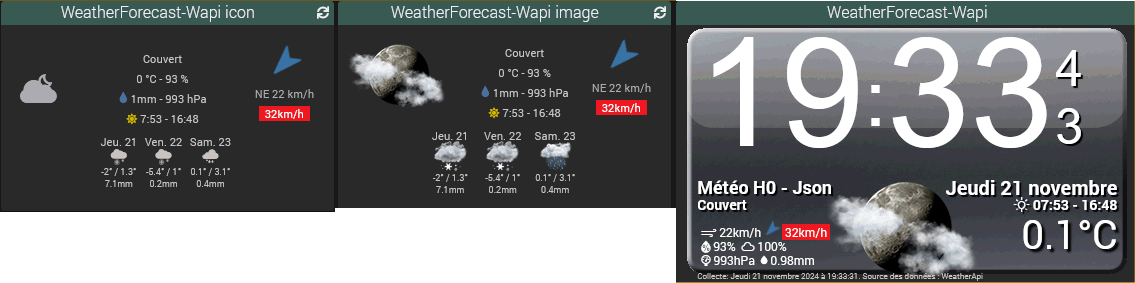
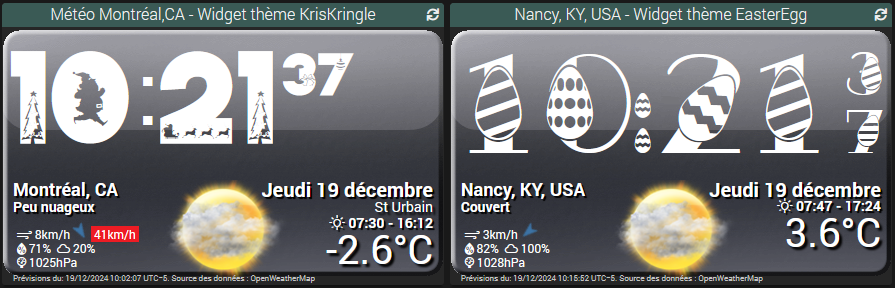
Add files via upload

diff --git a/core/template/dashboard/cmd.info.string.Clock.html b/core/template/dashboard/cmd.info.string.Clock.html
@@ -13,6 +13,12 @@
       font-weight:normal;
       font-style:normal;
     }
+    @font-face {
+      font-family: "Easter Egg";
+      src: url("plugins/weatherForecast/desktop/fonts/EasterEggRedu.ttf") format("truetype");
+      font-weight:normal;
+      font-style:normal;
+    }
   </style>
   <div class="content" style="background:transparent">
     <div id="digital_container#id#">
@@ -206,8 +212,8 @@
     <div>clockSecondsMarginLeft: {{Marge gauche du texte des secondes sur l'horloge. Défaut: 8px}}</div>
     <div>clockSecondsMarginTop: {{Marge haute du texte des secondes sur l'horloge. Défaut: 26px}}</div>
     <div>clockSecondsOn2Lines: {{Texte des secondes sur 2 lignes. 0/1 Défaut: 1}}</div>
-    <div>clockTheme: {{Thème de l'horloge.}} Digital, KrisKringle</div>
-    <div>clockTimezone: {{Fuseau horaire si pas de météo associée. Défaut: Europe/Paris}}</div>
+    <div>clockTheme: {{Thème de l'horloge.}} Digital, KrisKringle, EasterEgg</div>
+    <div>clockTimezone: {{Fuseau horaire. Défaut: Le fuseau horaire du navigateur}}</div>
     <div>displayBackgroundImage: {{Affichage de l'image de fond. 0/1 Défaut: 1}}</div>
     <div>displayClouds: {{Affichage du pourcentage de nuages. 0/1 Défaut: 1}}</div>
     <div>displayDayOfTheYear: {{Affichage du jour de l'année. 0/1 Défaut: 0 }}</div>
@@ -231,9 +237,9 @@
     var clockAnimation#id# = '';
     if ('#clockAnimation#' != '#clockAnimation'+'#')  clockAnimation#id# = '#clockAnimation#';
     else clockAnimation#id# = 'Random';
-    var timezone#id# = '';
+    var timezone#id# = Intl.DateTimeFormat().resolvedOptions().timeZone;
+    console.log("Browser TimeZone " +timezone#id#);
     if ('#clockTimezone#' != '#clockTimezone'+'#')  timezone#id# = '#clockTimezone#';
-    else timezone#id# = 'Europe/Paris';
     var seconds2lines#id# = 1;
     if ('#clockSecondsOn2Lines#' != '#clockSecondsOn2Lines'+'#')
       seconds2lines#id# = '#clockSecondsOn2Lines#';
@@ -248,17 +254,18 @@
       else if(clockAnimation#id#.toUpperCase() == 'SCROLLV') anim = 'animScrollV#id#';
       let lastHours = last#id#.substring(0,2);
       let lastMinutes = last#id#.substring(3,5);
+      if ('#clockTimezone#' != '#clockTimezone'+'#')  timezone#id# = '#clockTimezone#';
       let now = new Date();
       let nowTime = now.toLocaleTimeString('fr-FR', {timeZone:timezone#id#});
       let nowHours = nowTime.substring(0,2);
       let nowMinutes = nowTime.substring(3,5);
       let nowSeconds = nowTime.substring(6,8);
-// console.log("Timezone:" +timezone#id# +" " +nowTime);
+// console.log("UpdateTimeDate Timezone:" +timezone#id# +" " +nowTime);
 // console.log("Timezone:" +timezone#id# +" " +nowHours +"/" +nowMinutes +"/" +nowSeconds);
-      if (lastHours !== nowHours) {
+      if (lastHours != nowHours) {
           updateContainer#id#(hoursContainer#id#, nowHours, anim)
       }
-      if(lastMinutes !== nowMinutes) {
+      if(lastMinutes != nowMinutes) {
         updateContainer#id#(minutesContainer#id#, nowMinutes, anim)
       }
 // console.log("Timezone:" +timezone#id# +" " +lastHours +" " +nowHours +":" +nowMinutes);
@@ -282,11 +289,11 @@
           time.unshift('0');
       }
       let first = container.firstElementChild
-      if (first.lastElementChild.textContent !== time[0]) {
+      if (first.lastElementChild.textContent != time[0]) {
         updateNumber#id#(first, time[0], anim);
       }
       let last = container.lastElementChild
-      if (last.lastElementChild.textContent !== time[1]) {
+      if (last.lastElementChild.textContent != time[1]) {
         updateNumber#id#(last, time[1], anim);
       }
     }
@@ -332,9 +339,9 @@
             let json = _options.display_value.replaceAll('&quot;','"');
             let obj = JSON.parse(json);
             if(obj != null) {
-              timezone#id# = obj.timezone;
+              if(typeof obj.timezone != 'undefined') timezone#id# = obj.timezone;
               dayTxt = cd.toLocaleDateString([], {timeZone: timezone#id#, month: 'long', day: 'numeric',weekday: 'long'});
-// console.log("Timezone: " +timezone#id# +" Date: " +dayTxt +" " +obj.dt);
+// console.log("addUpdateFunction Timezone: " +timezone#id# +" Date: " +dayTxt +" " +obj.dt);
               let icon = "url('plugins/weatherForecast/core/template/images/" +obj.weather.icon +".png')"
               cmd.querySelector('.wIcon#uid#').style.setProperty('background-image', icon)
               cmd.querySelector('.condition').innerHTML = obj.weather.desc;
@@ -344,7 +351,7 @@
               cmd.querySelector('.Tvalue').setAttribute('title', 'Ressentie: '+obj.T.windchill);
 
               let sunrise = '--'; let sunset = '--';
-              if(typeof obj.sunrise !== 'undefined') {
+              if(typeof obj.sunrise != 'undefined') {
                 if(obj.sunrise == true) sunrise = '<i class="wi wi-day-sunny"></i>';
                 else if(obj.sunrise == false) sunrise = '<i class="wi wi-night-clear"></i>';
                 else {
@@ -352,7 +359,7 @@
                   sunrise = '<i class="wi wi-day-sunny"></i>&nbsp;' + cdrise.toLocaleTimeString([], { timeZone: timezone#id#, hour: "2-digit", minute: "2-digit", hour12: false });
                 }
               }
-              if(typeof obj.sunset !== 'undefined') {
+              if(typeof obj.sunset != 'undefined') {
                 if(obj.sunset == true) sunset = '<i class="wi wi-day-sunny"></i>';
                 else if(obj.sunset == false) sunset = '<i class="wi wi-night-clear"></i>';
                 else {
@@ -369,11 +376,11 @@
                 // Saint du jour
               saintOfTheDay = '';
               if('#displaySaintOfTheDay#' == '1') {
-                if(typeof obj.saintOfTheDay !== undefined) 
+                if(typeof obj.saintOfTheDay != 'undefined') 
                   saintOfTheDay = obj.saintOfTheDay;
               }
               if('#displayDayOfTheYear#' == '1') {
-                if(typeof obj.dayOfTheYear !== undefined) 
+                if(typeof obj.dayOfTheYear != 'undefined') 
                   saintOfTheDay += ' ' + obj.dayOfTheYear;
               }
               cmd.querySelector('.saintOfTheDay').innerHTML = saintOfTheDay;
@@ -452,13 +459,27 @@
             }
             else if ('#clockTheme#' == 'KrisKringle') {
               cmd.querySelector('.clock#id#').style.fontFamily = '"KRIS KINGLE", sans-serif';
-              cmd.querySelector('.clock#id#').style.fontSize = '96px';
+              cmd.querySelector('.clock#id#').style.fontSize = '92px';
               cmd.querySelector('.clock#id#').style.marginTop = '-14px';
               cmd.querySelector('.clock#id#').style.marginBottom = '14px';
               cmd.querySelector('.hours#id#').style.marginLeft = '8px';
               cmd.querySelector('.tick#id#').style.marginTop = '0px';
-              cmd.querySelector('.seconds#id#').style.fontSize = '45px';
+              cmd.querySelector('.seconds#id#').style.fontSize = '42px';
               cmd.querySelector('.seconds#id#').style.marginTop = '34px';
+              cmd.querySelector('.seconds#id#').style.marginLeft = '4px';
+              cmd.querySelector('.seconds#id#').style.lineHeight = 1.2;
+              seconds2lines#id# = 0;
+            }
+            else if ('#clockTheme#' == 'EasterEgg') {
+              cmd.querySelector('.clock#id#').style.fontFamily = '"Easter Egg", sans-serif';
+              cmd.querySelector('.clock#id#').style.fontSize = '110px';
+              cmd.querySelector('.clock#id#').style.marginTop = '-14px';
+              cmd.querySelector('.clock#id#').style.marginBottom = '14px';
+              cmd.querySelector('.hours#id#').style.marginLeft = '8px';
+              cmd.querySelector('.tick#id#').style.marginTop = '0px';
+              cmd.querySelector('.seconds#id#').style.fontSize = '48px';
+              cmd.querySelector('.seconds#id#').style.marginTop = '27px';
+              cmd.querySelector('.seconds#id#').style.marginLeft = '4px';
               cmd.querySelector('.seconds#id#').style.lineHeight = 1.2;
               seconds2lines#id# = 0;
             }

diff --git a/core/template/mobile/cmd.info.string.Clock.html b/core/template/mobile/cmd.info.string.Clock.html
@@ -13,6 +13,12 @@
       font-weight:normal;
       font-style:normal;
     }
+    @font-face {
+      font-family: "Easter Egg";
+      src: url("plugins/weatherForecast/desktop/fonts/EasterEggRedu.ttf") format("truetype");
+      font-weight:normal;
+      font-style:normal;
+    }
   </style>
   <div class="content" style="background:transparent">
     <div id="digital_container#id#">
@@ -206,8 +212,8 @@
     <div>clockSecondsMarginLeft: {{Marge gauche du texte des secondes sur l'horloge. Défaut: 8px}}</div>
     <div>clockSecondsMarginTop: {{Marge haute du texte des secondes sur l'horloge. Défaut: 26px}}</div>
     <div>clockSecondsOn2Lines: {{Texte des secondes sur 2 lignes. 0/1 Défaut: 1}}</div>
-    <div>clockTheme: {{Thème de l'horloge.}} Digital, KrisKringle</div>
-    <div>clockTimezone: {{Fuseau horaire si pas de météo associée. Défaut: Europe/Paris}}</div>
+    <div>clockTheme: {{Thème de l'horloge.}} Digital, KrisKringle, EasterEgg</div>
+    <div>clockTimezone: {{Fuseau horaire. Défaut: Le fuseau horaire du navigateur}}</div>
     <div>displayBackgroundImage: {{Affichage de l'image de fond. 0/1 Défaut: 1}}</div>
     <div>displayClouds: {{Affichage du pourcentage de nuages. 0/1 Défaut: 1}}</div>
     <div>displayDayOfTheYear: {{Affichage du jour de l'année. 0/1 Défaut: 0 }}</div>
@@ -231,9 +237,9 @@
     var clockAnimation#id# = '';
     if ('#clockAnimation#' != '#clockAnimation'+'#')  clockAnimation#id# = '#clockAnimation#';
     else clockAnimation#id# = 'Random';
-    var timezone#id# = '';
+    var timezone#id# = Intl.DateTimeFormat().resolvedOptions().timeZone;
+    console.log("Browser TimeZone " +timezone#id#);
     if ('#clockTimezone#' != '#clockTimezone'+'#')  timezone#id# = '#clockTimezone#';
-    else timezone#id# = 'Europe/Paris';
     var seconds2lines#id# = 1;
     if ('#clockSecondsOn2Lines#' != '#clockSecondsOn2Lines'+'#')
       seconds2lines#id# = '#clockSecondsOn2Lines#';
@@ -248,17 +254,18 @@
       else if(clockAnimation#id#.toUpperCase() == 'SCROLLV') anim = 'animScrollV#id#';
       let lastHours = last#id#.substring(0,2);
       let lastMinutes = last#id#.substring(3,5);
+      if ('#clockTimezone#' != '#clockTimezone'+'#')  timezone#id# = '#clockTimezone#';
       let now = new Date();
       let nowTime = now.toLocaleTimeString('fr-FR', {timeZone:timezone#id#});
       let nowHours = nowTime.substring(0,2);
       let nowMinutes = nowTime.substring(3,5);
       let nowSeconds = nowTime.substring(6,8);
-// console.log("Timezone:" +timezone#id# +" " +nowTime);
+// console.log("UpdateTimeDate Timezone:" +timezone#id# +" " +nowTime);
 // console.log("Timezone:" +timezone#id# +" " +nowHours +"/" +nowMinutes +"/" +nowSeconds);
-      if (lastHours !== nowHours) {
+      if (lastHours != nowHours) {
           updateContainer#id#(hoursContainer#id#, nowHours, anim)
       }
-      if(lastMinutes !== nowMinutes) {
+      if(lastMinutes != nowMinutes) {
         updateContainer#id#(minutesContainer#id#, nowMinutes, anim)
       }
 // console.log("Timezone:" +timezone#id# +" " +lastHours +" " +nowHours +":" +nowMinutes);
@@ -282,11 +289,11 @@
           time.unshift('0');
       }
       let first = container.firstElementChild
-      if (first.lastElementChild.textContent !== time[0]) {
+      if (first.lastElementChild.textContent != time[0]) {
         updateNumber#id#(first, time[0], anim);
       }
       let last = container.lastElementChild
-      if (last.lastElementChild.textContent !== time[1]) {
+      if (last.lastElementChild.textContent != time[1]) {
         updateNumber#id#(last, time[1], anim);
       }
     }
@@ -332,9 +339,9 @@
             let json = _options.display_value.replaceAll('&quot;','"');
             let obj = JSON.parse(json);
             if(obj != null) {
-              timezone#id# = obj.timezone;
+              if(typeof obj.timezone != 'undefined') timezone#id# = obj.timezone;
               dayTxt = cd.toLocaleDateString([], {timeZone: timezone#id#, month: 'long', day: 'numeric',weekday: 'long'});
-// console.log("Timezone: " +timezone#id# +" Date: " +dayTxt +" " +obj.dt);
+// console.log("addUpdateFunction Timezone: " +timezone#id# +" Date: " +dayTxt +" " +obj.dt);
               let icon = "url('plugins/weatherForecast/core/template/images/" +obj.weather.icon +".png')"
               cmd.querySelector('.wIcon#uid#').style.setProperty('background-image', icon)
               cmd.querySelector('.condition').innerHTML = obj.weather.desc;
@@ -344,7 +351,7 @@
               cmd.querySelector('.Tvalue').setAttribute('title', 'Ressentie: '+obj.T.windchill);
 
               let sunrise = '--'; let sunset = '--';
-              if(typeof obj.sunrise !== 'undefined') {
+              if(typeof obj.sunrise != 'undefined') {
                 if(obj.sunrise == true) sunrise = '<i class="wi wi-day-sunny"></i>';
                 else if(obj.sunrise == false) sunrise = '<i class="wi wi-night-clear"></i>';
                 else {
@@ -352,7 +359,7 @@
                   sunrise = '<i class="wi wi-day-sunny"></i>&nbsp;' + cdrise.toLocaleTimeString([], { timeZone: timezone#id#, hour: "2-digit", minute: "2-digit", hour12: false });
                 }
               }
-              if(typeof obj.sunset !== 'undefined') {
+              if(typeof obj.sunset != 'undefined') {
                 if(obj.sunset == true) sunset = '<i class="wi wi-day-sunny"></i>';
                 else if(obj.sunset == false) sunset = '<i class="wi wi-night-clear"></i>';
                 else {
@@ -369,11 +376,11 @@
                 // Saint du jour
               saintOfTheDay = '';
               if('#displaySaintOfTheDay#' == '1') {
-                if(typeof obj.saintOfTheDay !== undefined) 
+                if(typeof obj.saintOfTheDay != 'undefined') 
                   saintOfTheDay = obj.saintOfTheDay;
               }
               if('#displayDayOfTheYear#' == '1') {
-                if(typeof obj.dayOfTheYear !== undefined) 
+                if(typeof obj.dayOfTheYear != 'undefined') 
                   saintOfTheDay += ' ' + obj.dayOfTheYear;
               }
               cmd.querySelector('.saintOfTheDay').innerHTML = saintOfTheDay;
@@ -452,13 +459,27 @@
             }
             else if ('#clockTheme#' == 'KrisKringle') {
               cmd.querySelector('.clock#id#').style.fontFamily = '"KRIS KINGLE", sans-serif';
-              cmd.querySelector('.clock#id#').style.fontSize = '96px';
+              cmd.querySelector('.clock#id#').style.fontSize = '92px';
               cmd.querySelector('.clock#id#').style.marginTop = '-14px';
               cmd.querySelector('.clock#id#').style.marginBottom = '14px';
               cmd.querySelector('.hours#id#').style.marginLeft = '8px';
               cmd.querySelector('.tick#id#').style.marginTop = '0px';
-              cmd.querySelector('.seconds#id#').style.fontSize = '45px';
+              cmd.querySelector('.seconds#id#').style.fontSize = '42px';
               cmd.querySelector('.seconds#id#').style.marginTop = '34px';
+              cmd.querySelector('.seconds#id#').style.marginLeft = '4px';
+              cmd.querySelector('.seconds#id#').style.lineHeight = 1.2;
+              seconds2lines#id# = 0;
+            }
+            else if ('#clockTheme#' == 'EasterEgg') {
+              cmd.querySelector('.clock#id#').style.fontFamily = '"Easter Egg", sans-serif';
+              cmd.querySelector('.clock#id#').style.fontSize = '110px';
+              cmd.querySelector('.clock#id#').style.marginTop = '-14px';
+              cmd.querySelector('.clock#id#').style.marginBottom = '14px';
+              cmd.querySelector('.hours#id#').style.marginLeft = '8px';
+              cmd.querySelector('.tick#id#').style.marginTop = '0px';
+              cmd.querySelector('.seconds#id#').style.fontSize = '48px';
+              cmd.querySelector('.seconds#id#').style.marginTop = '27px';
+              cmd.querySelector('.seconds#id#').style.marginLeft = '4px';
               cmd.querySelector('.seconds#id#').style.lineHeight = 1.2;
               seconds2lines#id# = 0;
             }
